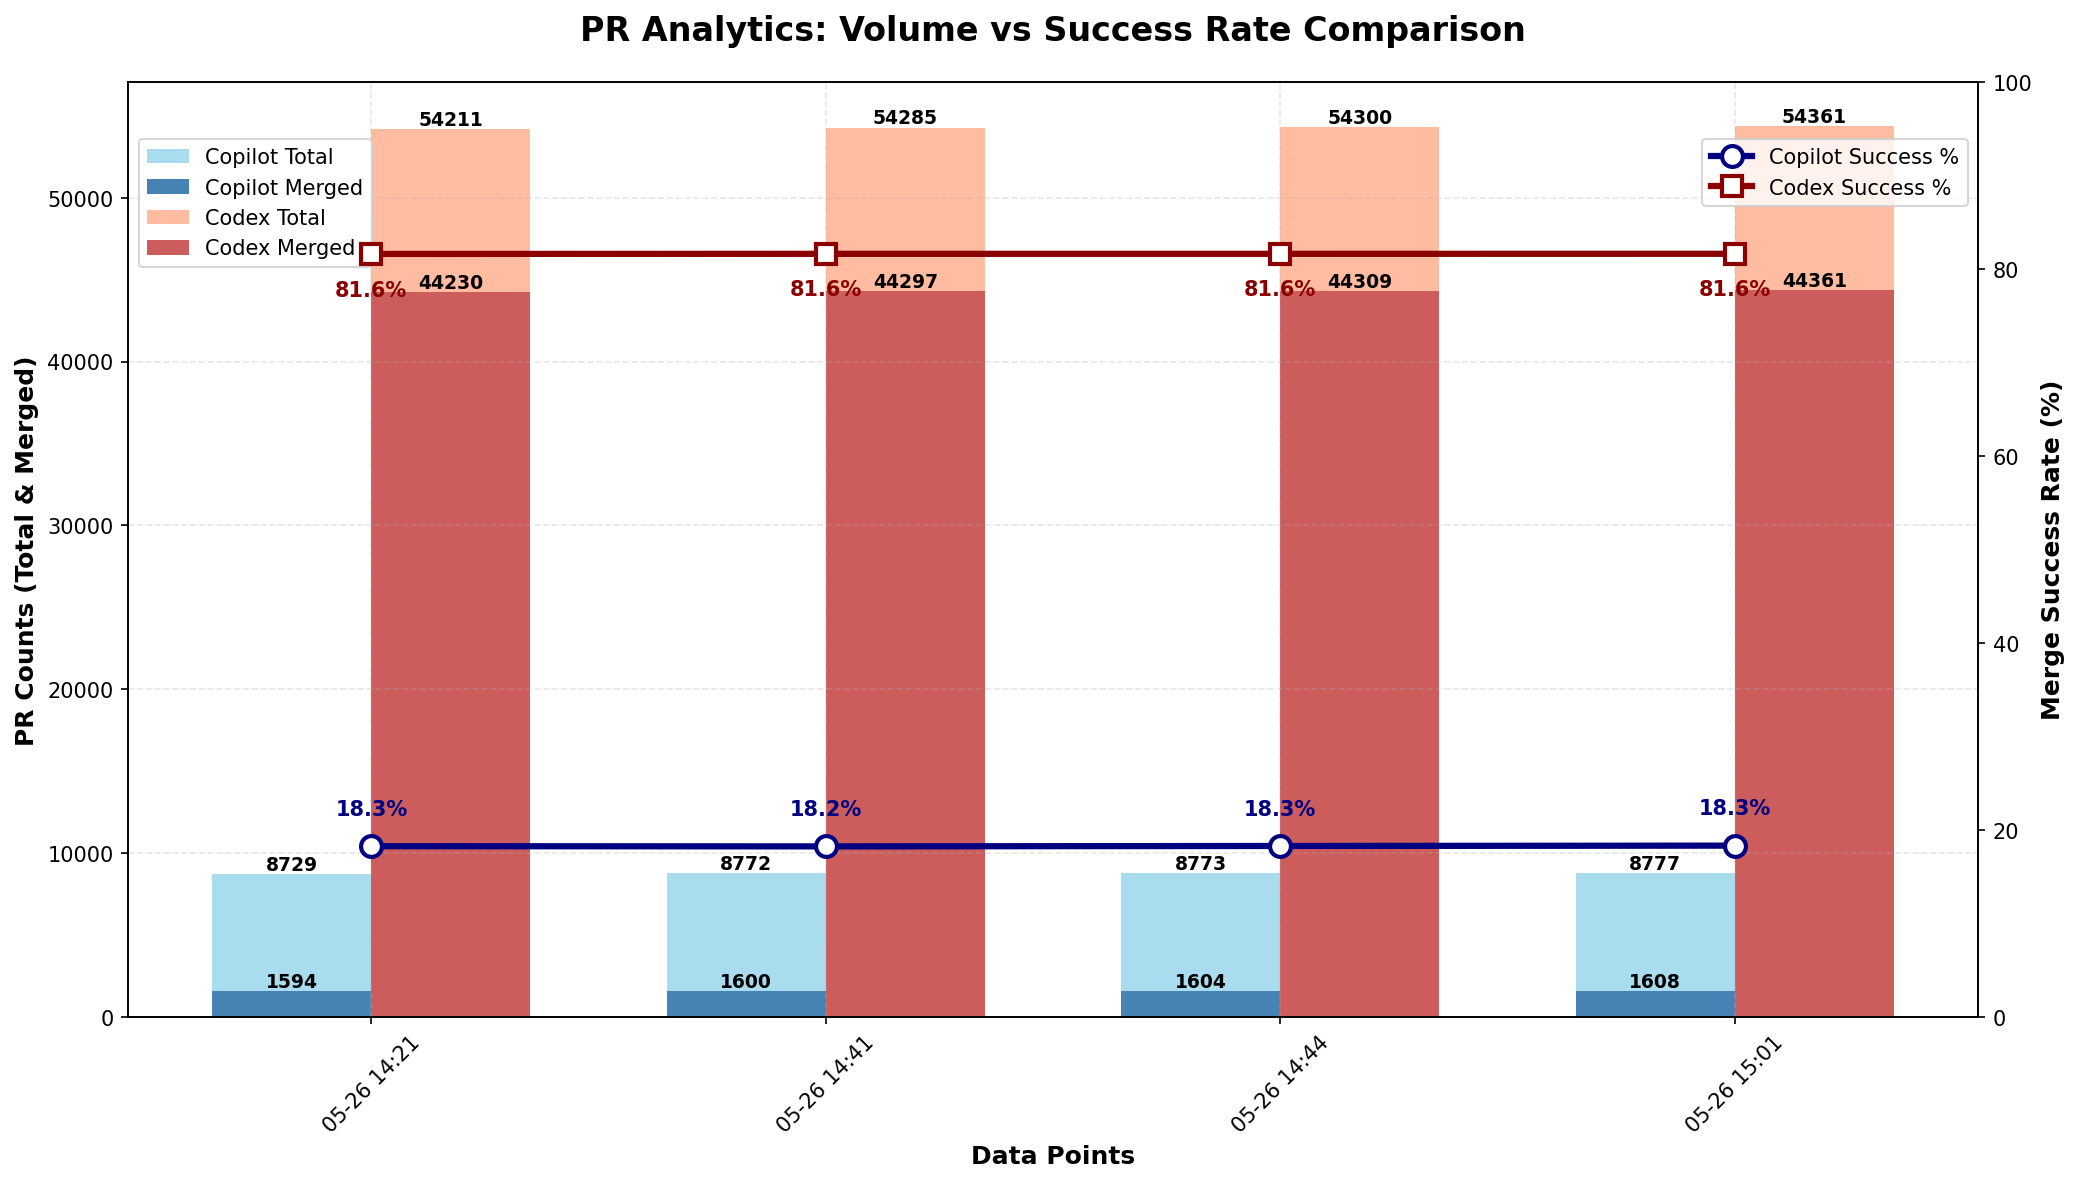
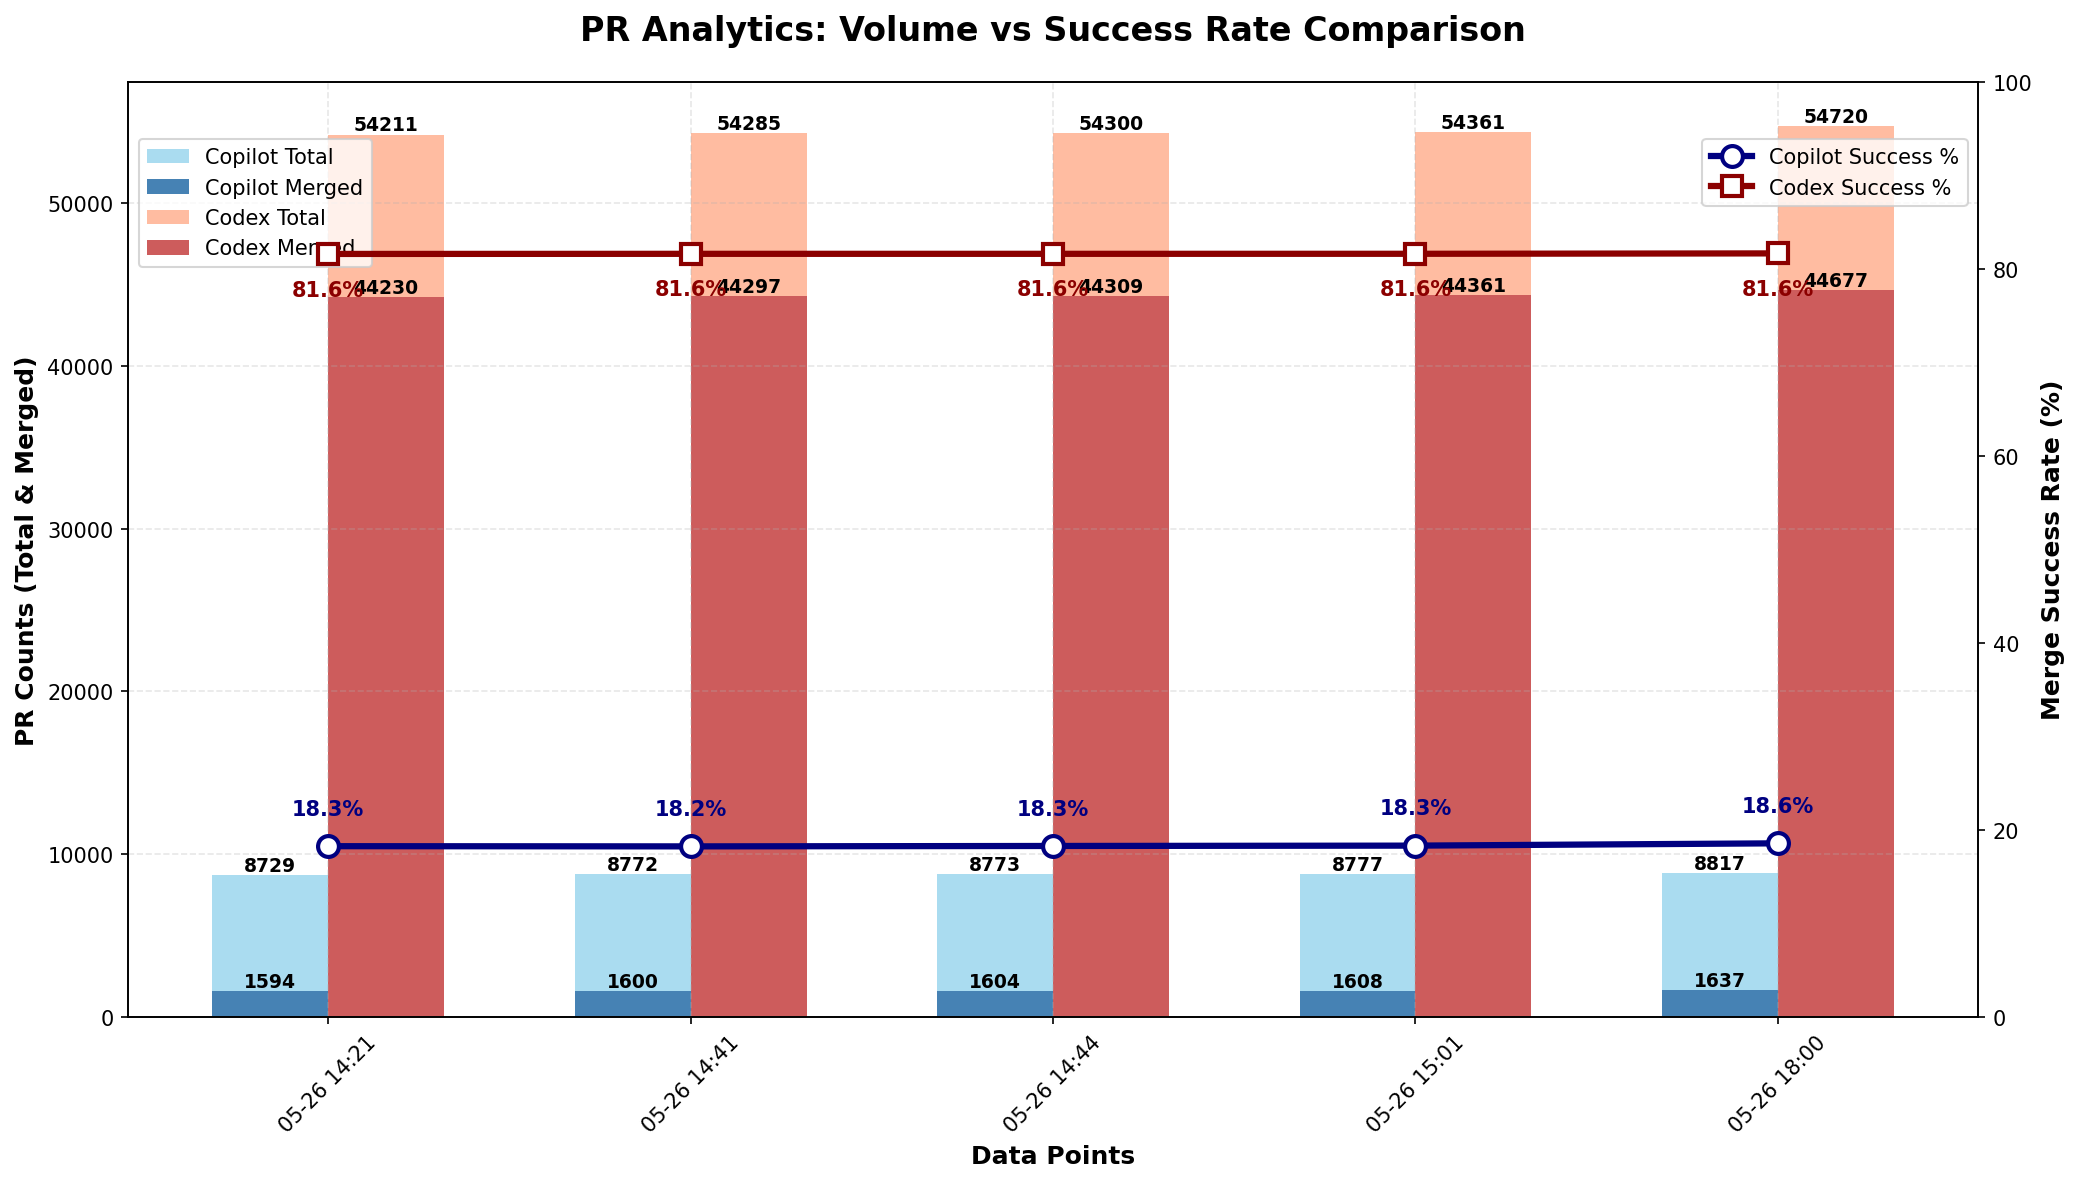
chore: update PR‑approval chart

diff --git a/README.md b/README.md
@@ -17,5 +17,5 @@ Explore the GitHub search queries used:
 
 | Project | Total PRs | Merged PRs | Merge Rate |
 | ------- | --------- | ---------- | ---------- |
-| Copilot | 8,777 | 1,608 | 18.32% |
-| Codex   | 54,361 | 44,361 | 81.60% |
+| Copilot | 8,817 | 1,637 | 18.57% |
+| Codex   | 54,720 | 44,677 | 81.65% |
